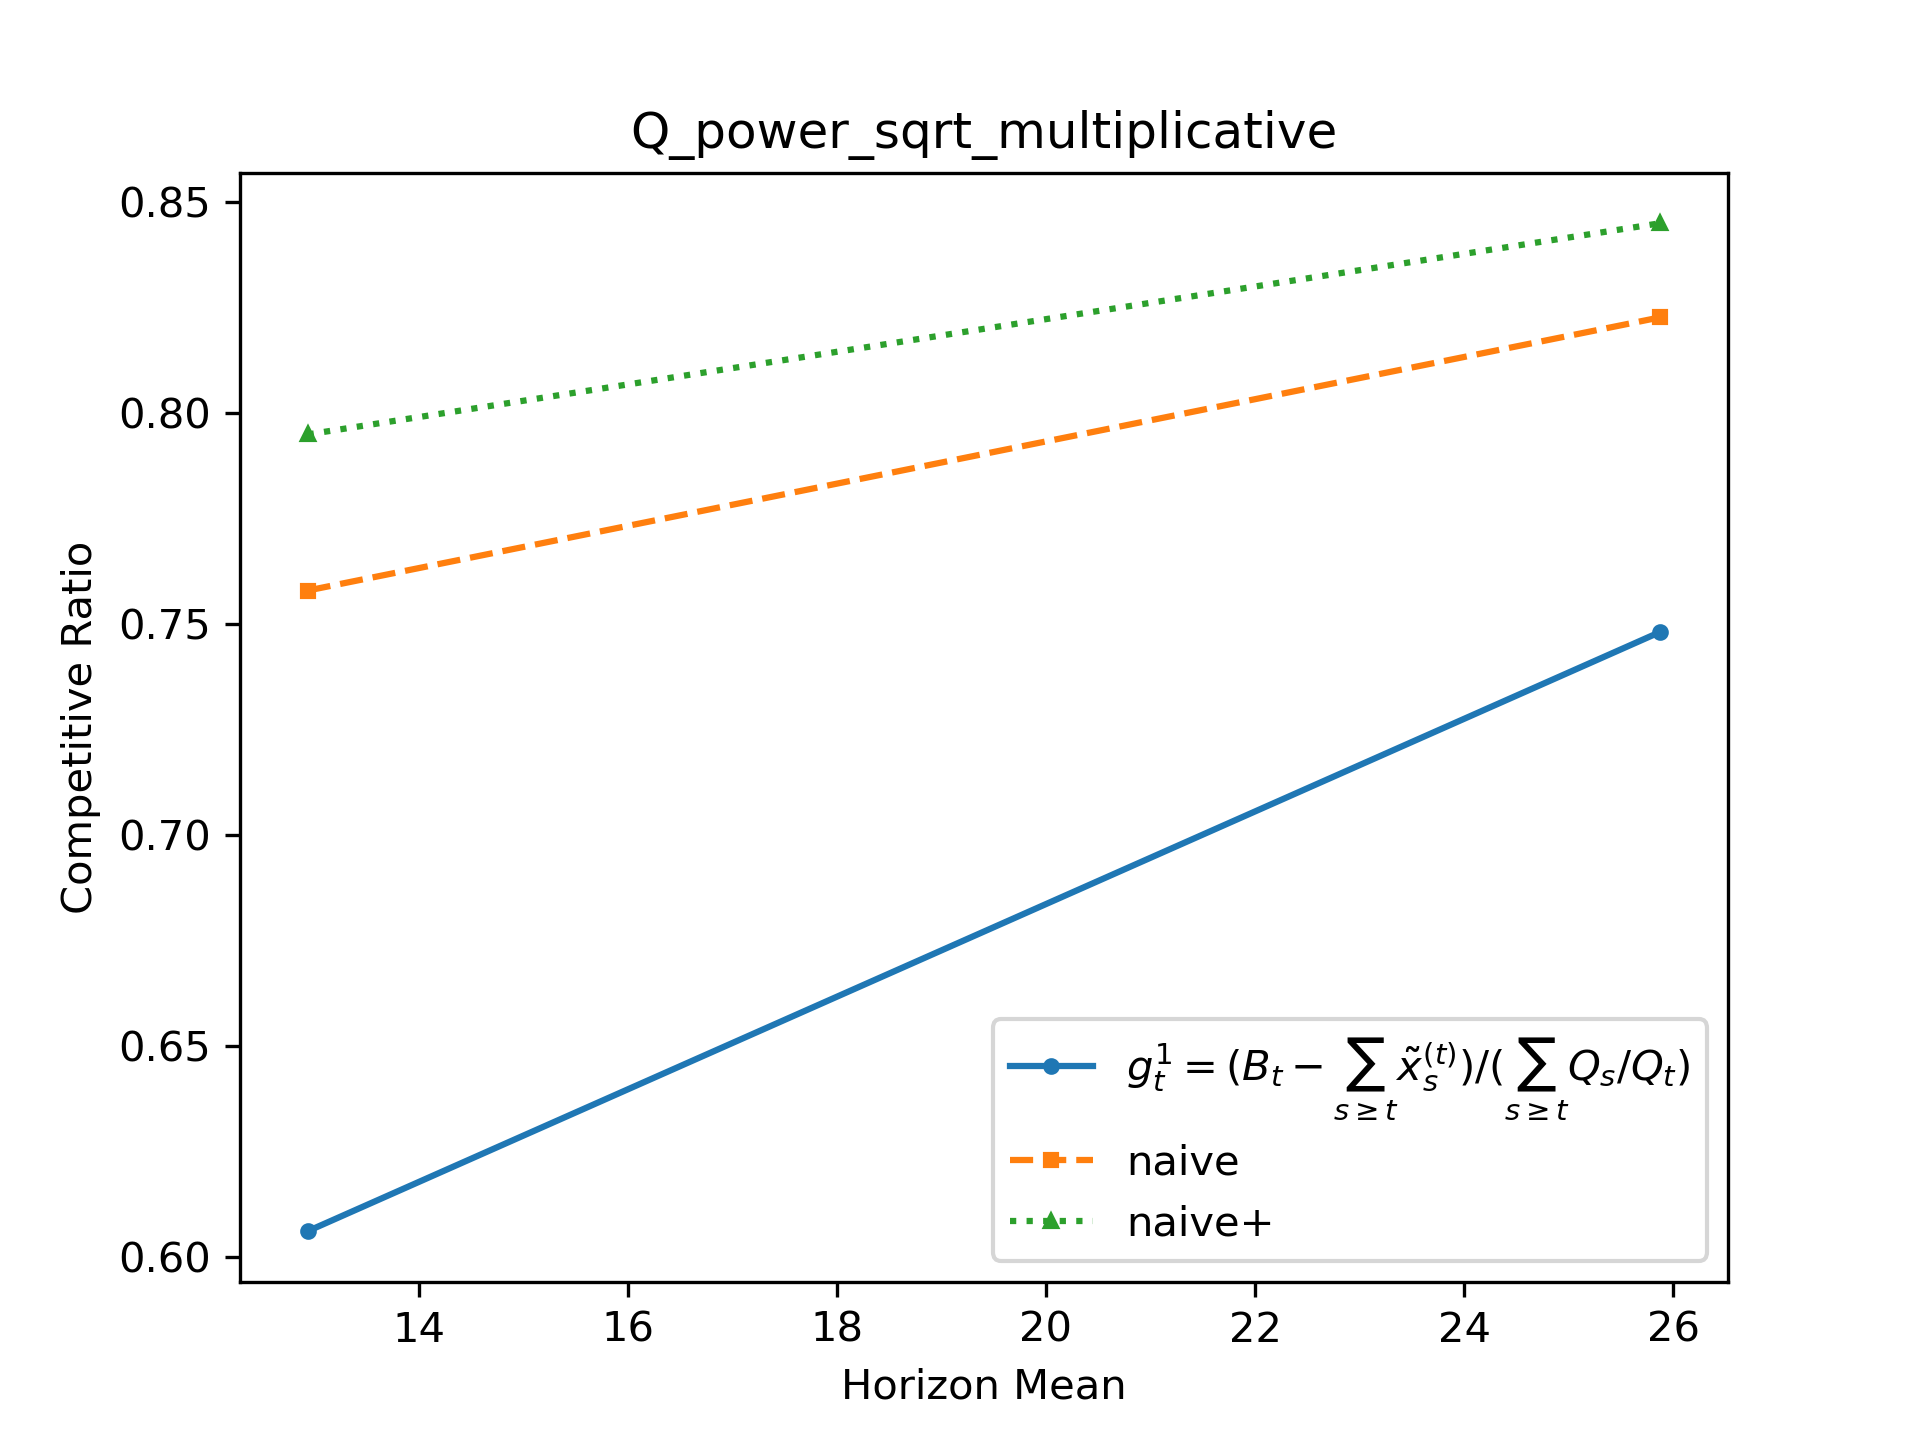
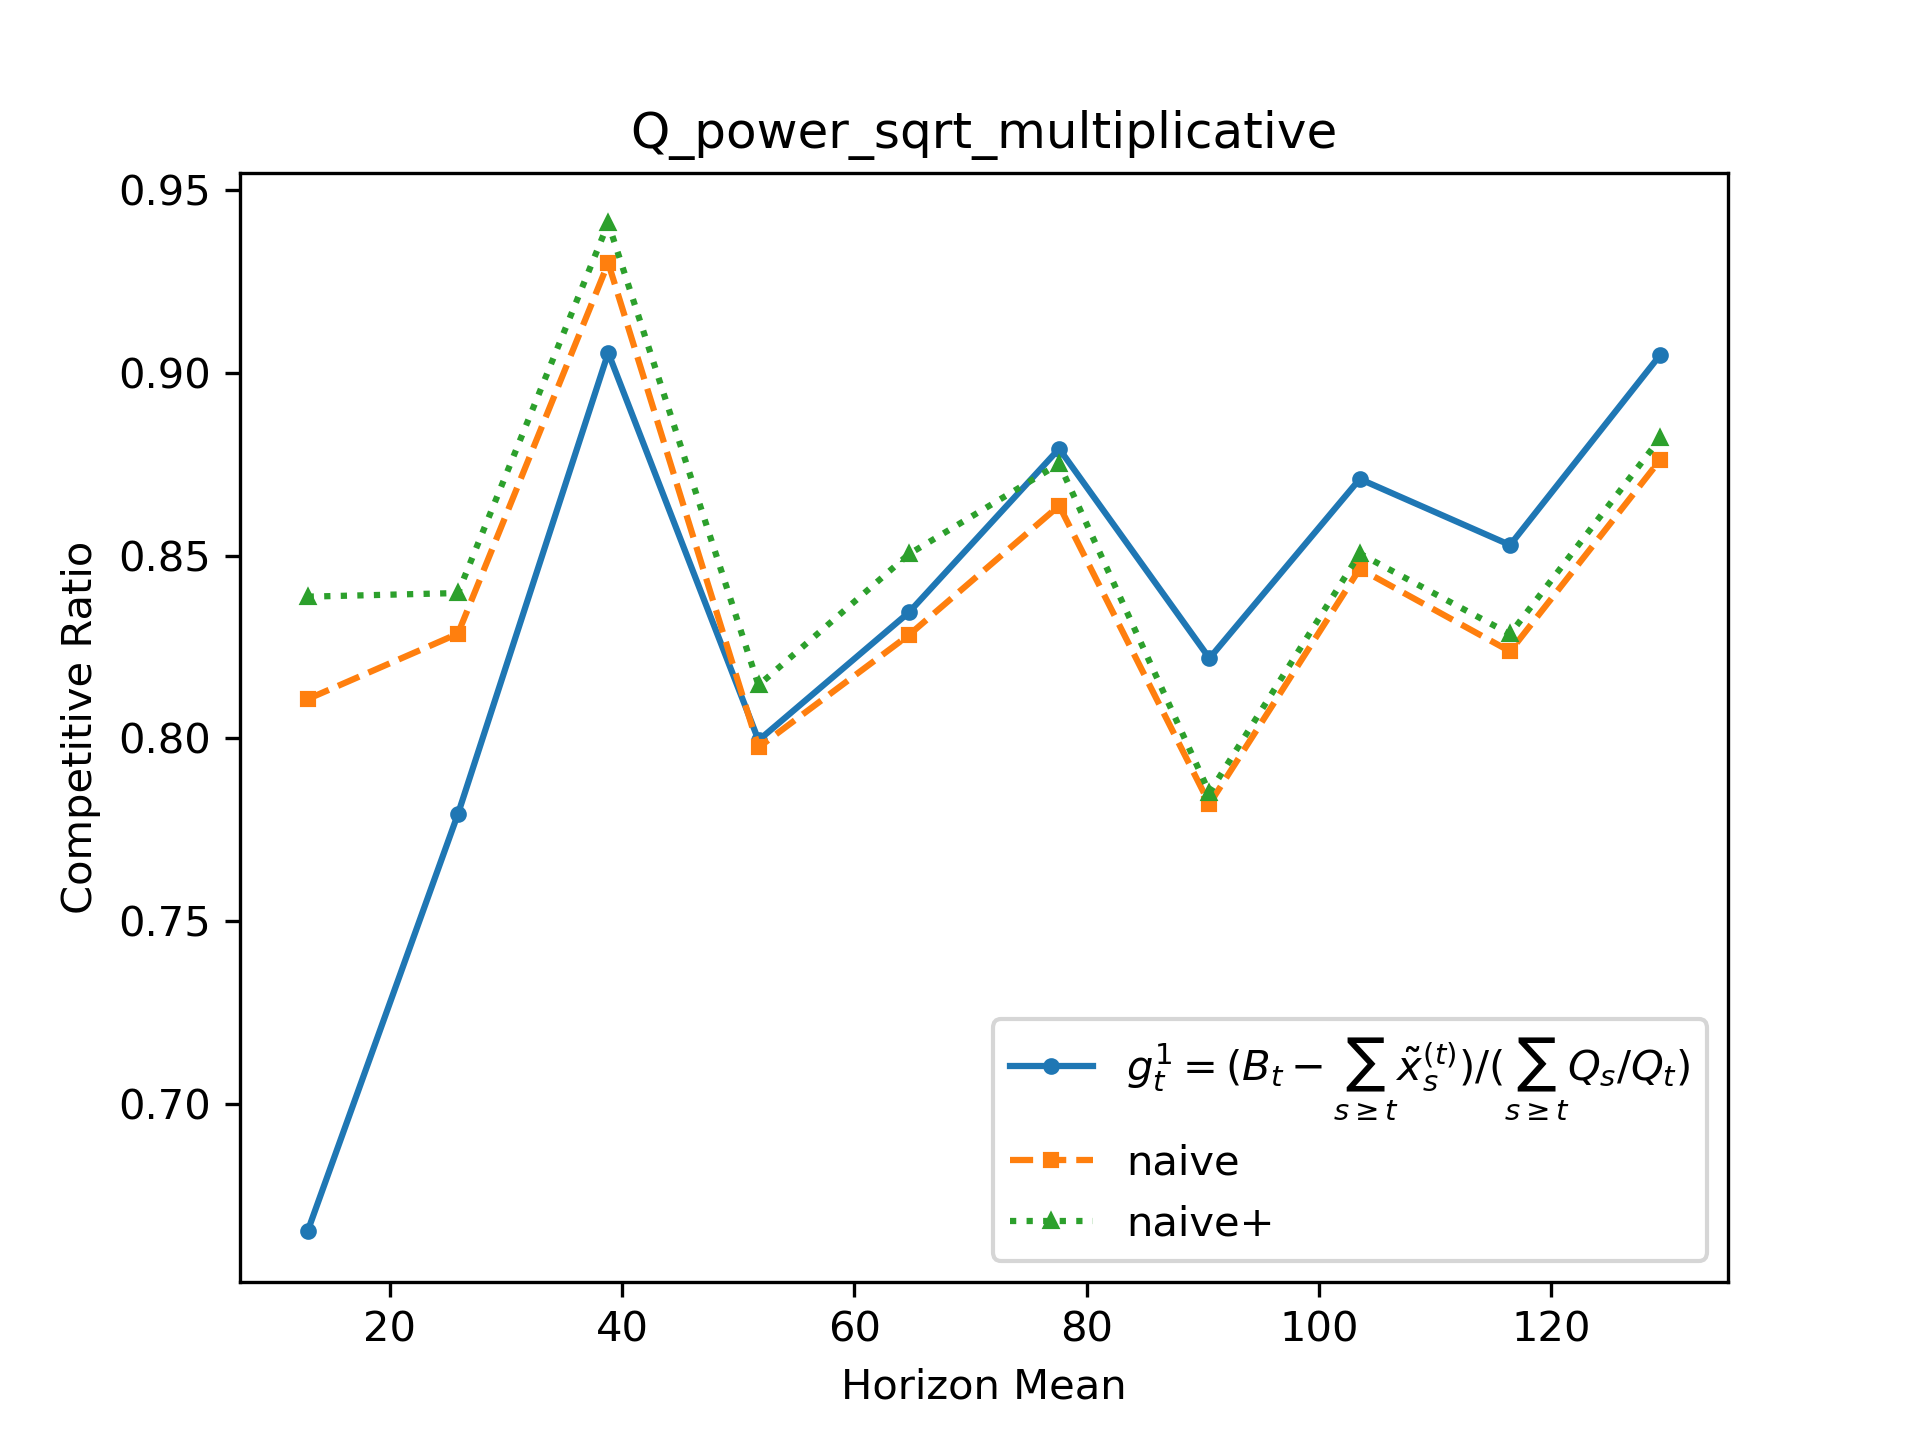
simu

diff --git a/src/Simulate.py b/src/Simulate.py
@@ -17,8 +17,7 @@ def simulate_single_setting(eta0,args,methods,runtime = True):
     reward = {method: 0 for method in methods}
     for i in range(args['rounds']):
         env_dict = env.draw_instance()
-        if i==0: # offline only simulate once
-            reward['off_unknown'] += offline_policy(env_dict,'unknown')[1]*args['rounds']
+        reward['off_unknown'] += offline_policy(env_dict,'unknown')[1]
         for method in methods:
             if 'off' in method:
                 continue

diff --git a/test2.py b/test2.py
@@ -14,9 +14,9 @@ args = {
         'N_std':1,
         'astype':'multiplicative',
         'as_scale':1,
-        'as_stepsize':5,
-        'max_scale':1,
-        'rounds':3,
+        'as_stepsize':20,
+        'max_scale':50,
+        'rounds':5,
         'Q_beta':0.99,
         'Q_alpha':0.75,
         'f_shape':'sqrt',
